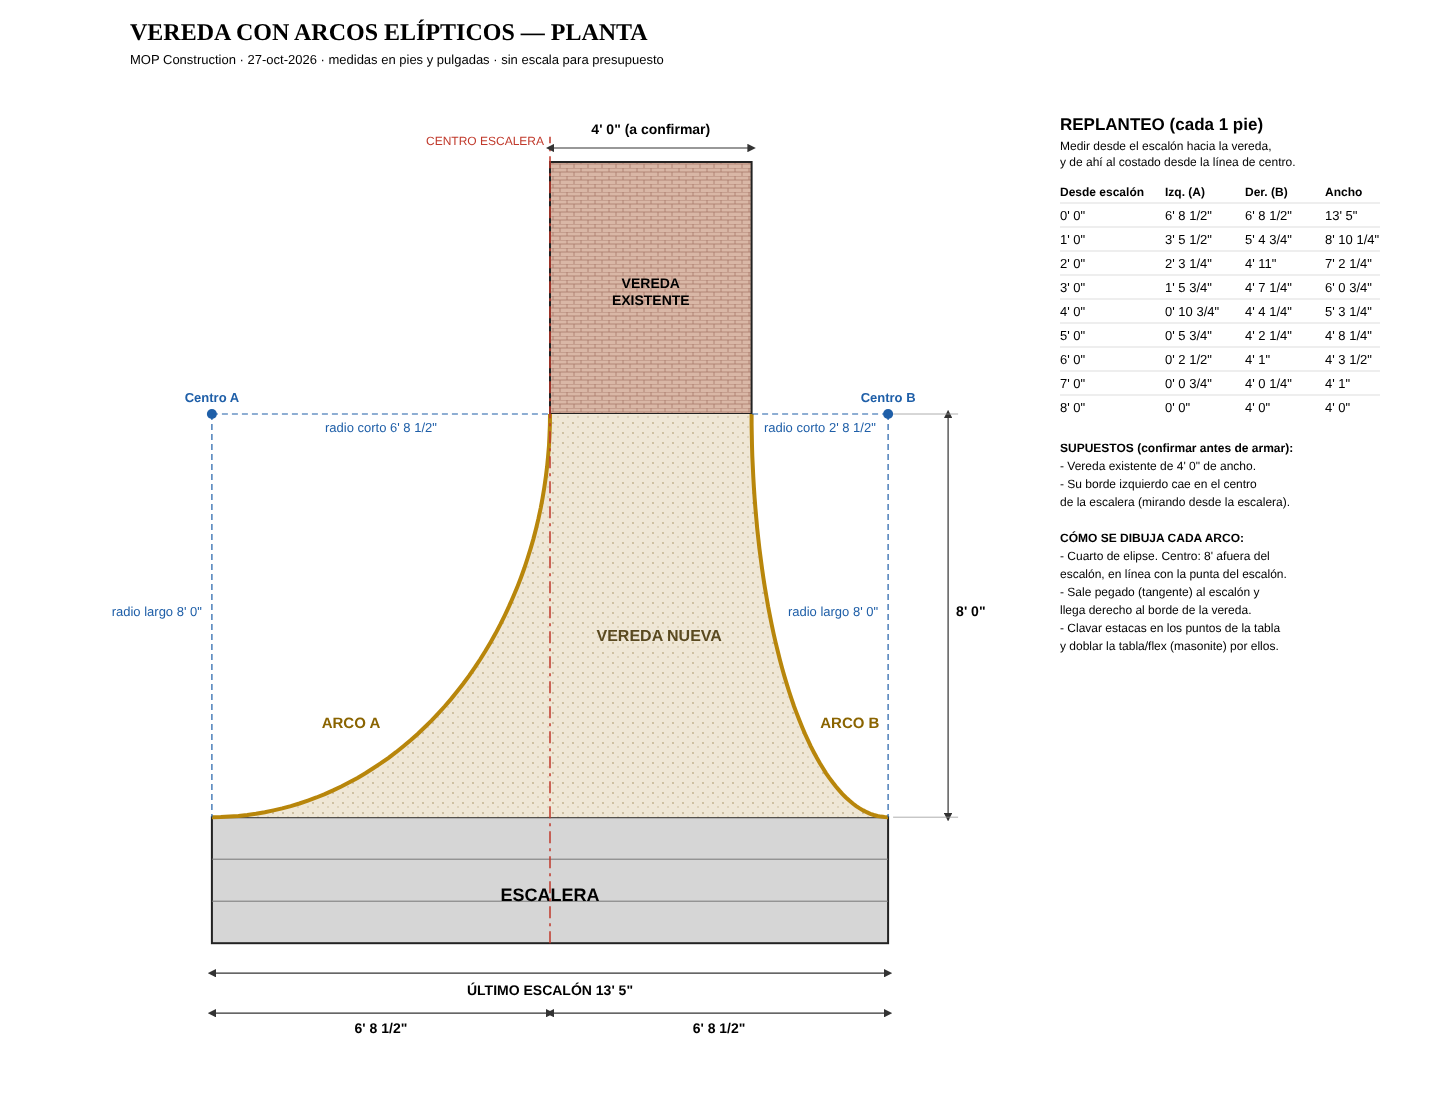
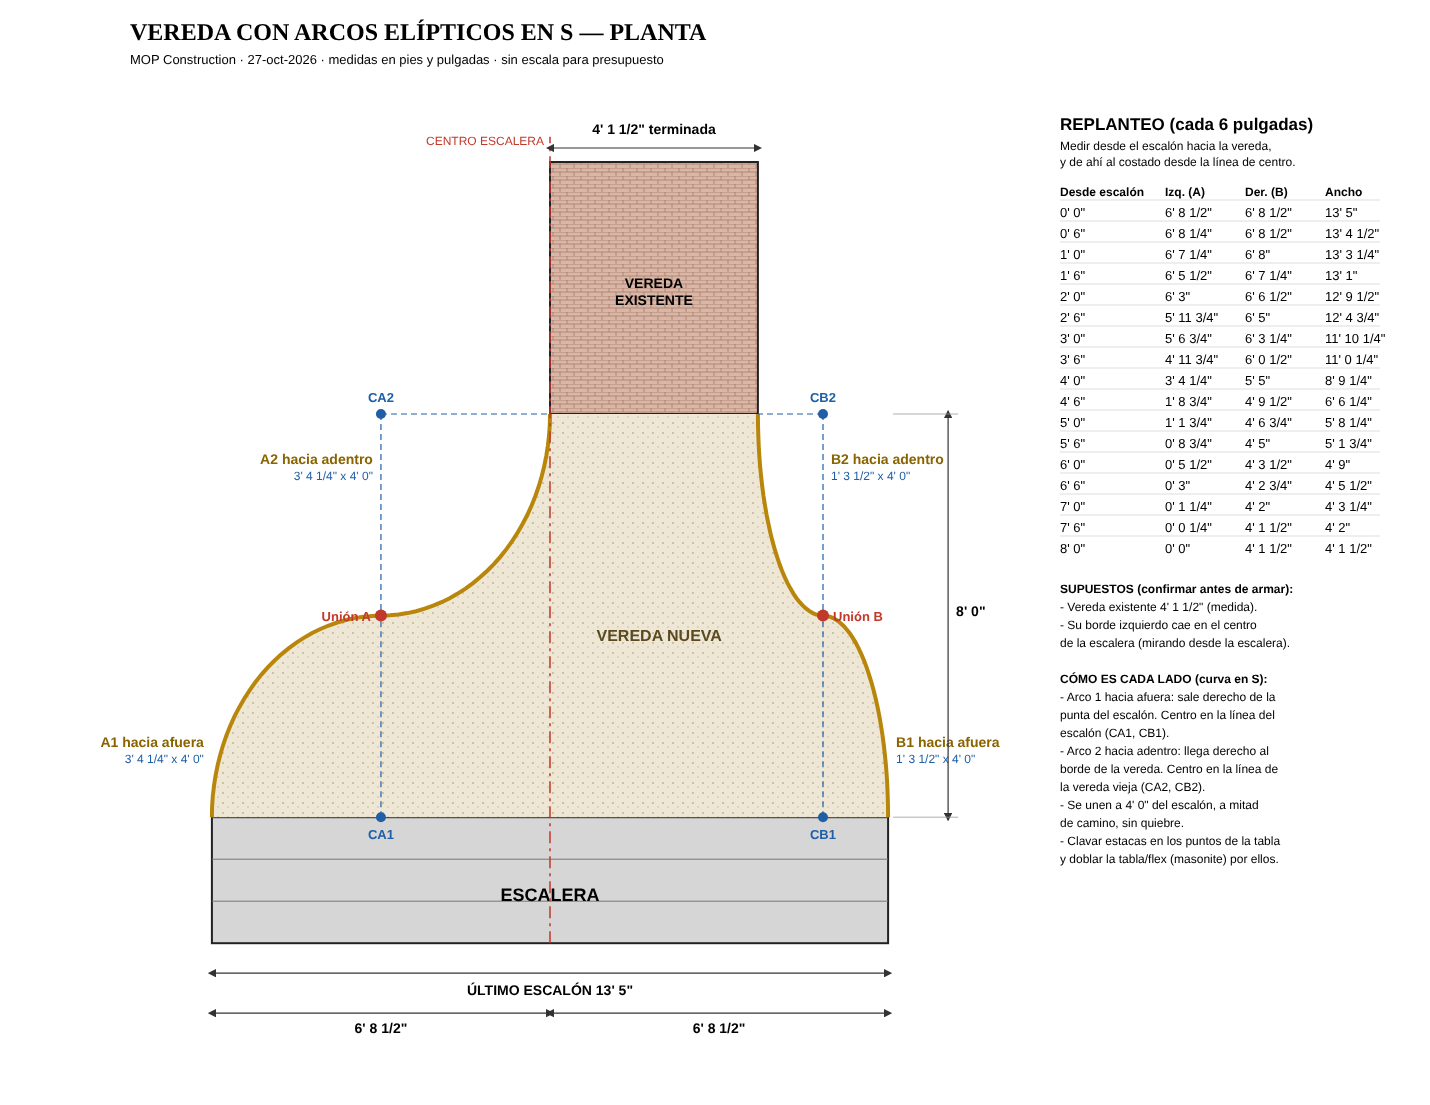
Vereda: cada lado en S (arco hacia afuera + arco hacia adentro), vereda existente 4' 1 1/2"
Claude-Session: https://claude.ai/code/session_01JxfwCwcy58gx3mRqVDhqQV

diff --git a/planos/vereda/vereda_arcos.py b/planos/vereda/vereda_arcos.py
@@ -9,8 +9,8 @@ import math, pathlib
 # --- Medidas dadas por Martin (27-oct) ---
 ANCHO_ESCALON = 13 * 12 + 5      # 161" último escalón
 LARGO = 8 * 12                   # 96" de la escalera a la vereda existente
+ANCHO_VEREDA = 49.5              # vereda existente 4' 1 1/2" terminada (Martin, 27-oct)
 # --- SUPUESTOS (confirmar en obra) ---
-ANCHO_VEREDA = 48                # vereda existente de 4'
 BORDE_IZQ_VEREDA = 0             # borde izquierdo de la vereda = centro de la escalera
                                  # (mirando desde la escalera hacia la vereda)
 
@@ -18,15 +18,34 @@ xs_izq, xs_der = -ANCHO_ESCALON / 2, ANCHO_ESCALON / 2
 xe_izq, xe_der = BORDE_IZQ_VEREDA, BORDE_IZQ_VEREDA + ANCHO_VEREDA
 
 
-def punto(xs, xe, t):
-    """Cuarto de elipse con centro en (xs, LARGO): sale tangente al escalón
-    y llega tangente (paralelo) al borde de la vereda."""
-    return xs + (xe - xs) * math.sin(t), LARGO * (1 - math.cos(t))
+UNION = LARGO / 2                # punto de unión de los dos arcos de cada lado
+
+
+# Cada lado es una S de dos cuartos de elipse que se unen en (xm, UNION):
+#  arco 1 (hacia afuera): centro (xm, 0), sale derecho de la punta del escalón;
+#  arco 2 (hacia adentro): centro (xm, LARGO), llega derecho al borde de la vereda.
+# En la unión los dos arcos tienen la misma tangente (paralela al escalón).
+def xm(xs, xe):
+    return (xs + xe) / 2
+
+
+def punto(xs, xe, u):
+    """u de 0 (escalón) a 1 (vereda)."""
+    m = xm(xs, xe)
+    if u <= 0.5:
+        t = math.pi * u
+        return m + (xs - m) * math.cos(t), UNION * math.sin(t)
+    t = math.pi * (u - 0.5)
+    return m + (xe - m) * math.sin(t), LARGO - (LARGO - UNION) * math.cos(t)
 
 
 def x_en(xs, xe, y):
-    c = 1 - y / LARGO
-    return xs + (xe - xs) * math.sqrt(max(0.0, 1 - c * c))
+    m = xm(xs, xe)
+    if y <= UNION:
+        s_ = y / UNION
+        return m + (xs - m) * math.sqrt(max(0.0, 1 - s_ * s_))
+    c = (LARGO - y) / (LARGO - UNION)
+    return m + (xe - m) * math.sqrt(max(0.0, 1 - c * c))
 
 
 def pies(p):
@@ -41,11 +60,11 @@ def pies(p):
 
 def tabla():
     filas = []
-    for k in range(0, 9):
-        y = k * 12
+    for k in range(0, 17):
+        y = k * 6
         izq = -x_en(xs_izq, xe_izq, y)      # a la izquierda del centro
         der = x_en(xs_der, xe_der, y)       # a la derecha del centro
-        filas.append((k, izq, der, izq + der))
+        filas.append((y, izq, der, izq + der))
     return filas
 
 
@@ -85,8 +104,8 @@ def svg():
 
     # Vereda nueva (relleno)
     n = 60
-    pts = [punto(xs_izq, xe_izq, math.pi / 2 * i / n) for i in range(n + 1)]
-    ptd = [punto(xs_der, xe_der, math.pi / 2 * i / n) for i in range(n + 1)]
+    pts = [punto(xs_izq, xe_izq, i / n) for i in range(n + 1)]
+    ptd = [punto(xs_der, xe_der, i / n) for i in range(n + 1)]
     contorno = pts + ptd[::-1]
     d = "M" + " L".join(f"{X(x):.1f},{Y(y):.1f}" for x, y in contorno) + "Z"
     a(f'<path d="{d}" fill="url(#hor)" stroke="none"/>')
@@ -99,16 +118,22 @@ def svg():
     a(f'<line x1="{X(0)}" y1="{Y(-30)}" x2="{X(0)}" y2="{Y(LARGO+66)}" stroke="#c0392b" stroke-width="1.5" stroke-dasharray="12 5 3 5"/>')
     a(f'<text x="{X(0)-6}" y="{Y(LARGO+64)}" text-anchor="end" font-size="12" fill="#c0392b">CENTRO ESCALERA</text>')
 
-    # Centros de las elipses y semiejes
+    # Centros de las elipses, unión y semiejes
     for xs, xe, lado in ((xs_izq, xe_izq, "A"), (xs_der, xe_der, "B")):
-        a(f'<circle cx="{X(xs)}" cy="{Y(LARGO)}" r="5" fill="#1f5fa8"/>')
-        a(f'<line x1="{X(xs)}" y1="{Y(LARGO)}" x2="{X(xe)}" y2="{Y(LARGO)}" stroke="#1f5fa8" stroke-width="1.2" stroke-dasharray="6 4"/>')
-        a(f'<line x1="{X(xs)}" y1="{Y(LARGO)}" x2="{X(xs)}" y2="{Y(0)}" stroke="#1f5fa8" stroke-width="1.2" stroke-dasharray="6 4"/>')
-        a(f'<text x="{X(xs)}" y="{Y(LARGO)-12}" text-anchor="middle" font-size="13" font-weight="700" fill="#1f5fa8">Centro {lado}</text>')
-        r = abs(xe - xs)
-        a(f'<text x="{X((xs+xe)/2)}" y="{Y(LARGO)+18}" text-anchor="middle" font-size="13" fill="#1f5fa8">radio corto {pies(r)}</text>')
-        a(f'<text x="{X(xs)-10}" y="{Y(LARGO/2)}" text-anchor="end" font-size="13" fill="#1f5fa8">radio largo {pies(LARGO)}</text>')
-        a(f'<text x="{X((xs+xe)/2)+(-30 if xs<0 else 30)}" y="{Y(LARGO*0.22)}" text-anchor="middle" font-size="15" font-weight="700" fill="#8a6400">ARCO {lado}</text>')
+        m = xm(xs, xe)
+        izq = xs < 0
+        for yc, num in ((0, 1), (LARGO, 2)):
+            a(f'<circle cx="{X(m)}" cy="{Y(yc)}" r="5" fill="#1f5fa8"/>')
+            a(f'<line x1="{X(m)}" y1="{Y(yc)}" x2="{X(m)}" y2="{Y(UNION)}" stroke="#1f5fa8" stroke-width="1.2" stroke-dasharray="6 4"/>')
+            a(f'<text x="{X(m)}" y="{Y(yc)+(22 if yc==0 else -12)}" text-anchor="middle" font-size="13" font-weight="700" fill="#1f5fa8">C{lado}{num}</text>')
+        a(f'<line x1="{X(m)}" y1="{Y(LARGO)}" x2="{X(xe)}" y2="{Y(LARGO)}" stroke="#1f5fa8" stroke-width="1.2" stroke-dasharray="6 4"/>')
+        a(f'<circle cx="{X(m)}" cy="{Y(UNION)}" r="6" fill="#c0392b"/>')
+        a(f'<text x="{X(m)+(-10 if izq else 10)}" y="{Y(UNION)+5}" text-anchor="{"end" if izq else "start"}" font-size="13" font-weight="700" fill="#c0392b">Unión {lado}</text>')
+        r = abs(xe - xs) / 2
+        a(f'<text x="{X(xs)+(-8 if izq else 8)}" y="{Y(UNION*0.35)}" text-anchor="{"end" if izq else "start"}" font-size="14" font-weight="700" fill="#8a6400">{lado}1 hacia afuera</text>')
+        a(f'<text x="{X(xs)+(-8 if izq else 8)}" y="{Y(UNION*0.35)+16}" text-anchor="{"end" if izq else "start"}" font-size="12" fill="#1f5fa8">{pies(r)} x {pies(UNION)}</text>')
+        a(f'<text x="{X(m)+(-8 if izq else 8)}" y="{Y(UNION+(LARGO-UNION)*0.75)}" text-anchor="{"end" if izq else "start"}" font-size="14" font-weight="700" fill="#8a6400">{lado}2 hacia adentro</text>')
+        a(f'<text x="{X(m)+(-8 if izq else 8)}" y="{Y(UNION+(LARGO-UNION)*0.75)+16}" text-anchor="{"end" if izq else "start"}" font-size="12" fill="#1f5fa8">{pies(r)} x {pies(LARGO-UNION)}</text>')
 
     # Cotas
     def cota_h(x1, x2, y, txt, dy=-14):
@@ -117,7 +142,7 @@ def svg():
     cota_h(xs_izq, xs_der, Y(-30) + 30, f"ÚLTIMO ESCALÓN {pies(ANCHO_ESCALON)}", 22)
     cota_h(xs_izq, 0, Y(-30) + 70, pies(ANCHO_ESCALON / 2), 20)
     cota_h(0, xs_der, Y(-30) + 70, pies(ANCHO_ESCALON / 2), 20)
-    cota_h(xe_izq, xe_der, Y(LARGO + 60) - 14, f"{pies(ANCHO_VEREDA)} (a confirmar)")
+    cota_h(xe_izq, xe_der, Y(LARGO + 60) - 14, f"{pies(ANCHO_VEREDA)} terminada")
     xv = X(xs_der) + 60
     a(f'<line x1="{xv}" y1="{Y(0)}" x2="{xv}" y2="{Y(LARGO)}" stroke="#333" stroke-width="1.2" marker-start="url(#fl)" marker-end="url(#fl)"/>')
     a(f'<text x="{xv+8}" y="{Y(LARGO/2)}" font-size="14" font-weight="700">{pies(LARGO)}</text>')
@@ -126,7 +151,7 @@ def svg():
 
     # Tabla de replanteo
     tx, ty = X(xmax) + 90, my + 10
-    a(f'<text x="{tx}" y="{ty}" font-size="17" font-weight="700">REPLANTEO (cada 1 pie)</text>')
+    a(f'<text x="{tx}" y="{ty}" font-size="17" font-weight="700">REPLANTEO (cada 6 pulgadas)</text>')
     a(f'<text x="{tx}" y="{ty+20}" font-size="12">Medir desde el escalón hacia la vereda,</text>')
     a(f'<text x="{tx}" y="{ty+36}" font-size="12">y de ahí al costado desde la línea de centro.</text>')
     cab = ("Desde escalón", "Izq. (A)", "Der. (B)", "Ancho")
@@ -135,22 +160,26 @@ def svg():
     for c, t in zip(cols, cab):
         a(f'<text x="{tx+c}" y="{yy}" font-size="12" font-weight="700">{t}</text>')
     for k, izq, der, an in tabla():
-        yy += 24
+        yy += 21
         a(f'<line x1="{tx}" y1="{yy-17}" x2="{tx+320}" y2="{yy-17}" stroke="#ddd"/>')
-        for c, t in zip(cols, (f"{k}' 0\"", pies(izq), pies(der), pies(an))):
+        for c, t in zip(cols, (pies(k), pies(izq), pies(der), pies(an))):
             a(f'<text x="{tx+c}" y="{yy}" font-size="13">{t}</text>')
     yy += 40
     notas = [
         "SUPUESTOS (confirmar antes de armar):",
-        f"- Vereda existente de {pies(ANCHO_VEREDA)} de ancho.",
+        f"- Vereda existente {pies(ANCHO_VEREDA)} (medida).",
         "- Su borde izquierdo cae en el centro",
         "  de la escalera (mirando desde la escalera).",
         "",
-        "CÓMO SE DIBUJA CADA ARCO:",
-        "- Cuarto de elipse. Centro: 8' afuera del",
-        "  escalón, en línea con la punta del escalón.",
-        "- Sale pegado (tangente) al escalón y",
-        "  llega derecho al borde de la vereda.",
+        "CÓMO ES CADA LADO (curva en S):",
+        "- Arco 1 hacia afuera: sale derecho de la",
+        "  punta del escalón. Centro en la línea del",
+        "  escalón (CA1, CB1).",
+        "- Arco 2 hacia adentro: llega derecho al",
+        "  borde de la vereda. Centro en la línea de",
+        "  la vereda vieja (CA2, CB2).",
+        f"- Se unen a {pies(UNION)} del escalón, a mitad",
+        "  de camino, sin quiebre.",
         "- Clavar estacas en los puntos de la tabla",
         "  y doblar la tabla/flex (masonite) por ellos.",
     ]
@@ -158,7 +187,7 @@ def svg():
         a(f'<text x="{tx}" y="{yy}" font-size="12" font-weight="{"700" if t.endswith(":") else "400"}">{t}</text>')
         yy += 18
 
-    a(f'<text x="{mx}" y="{40}" font-size="24" font-weight="700" font-family="Cinzel, serif">VEREDA CON ARCOS ELÍPTICOS — PLANTA</text>')
+    a(f'<text x="{mx}" y="{40}" font-size="24" font-weight="700" font-family="Cinzel, serif">VEREDA CON ARCOS ELÍPTICOS EN S — PLANTA</text>')
     a(f'<text x="{mx}" y="{64}" font-size="13">MOP Construction · 27-oct-2026 · medidas en pies y pulgadas · sin escala para presupuesto</text>')
     a('</svg>')
     return "\n".join(o)
@@ -168,4 +197,4 @@ if __name__ == "__main__":
     aqui = pathlib.Path(__file__).parent
     (aqui / "vereda_arcos.svg").write_text(svg(), encoding="utf-8")
     for k, izq, der, an in tabla():
-        print(f"{k}' -> izq {pies(izq):>10}  der {pies(der):>10}  ancho {pies(an):>10}")
+        print(f"{pies(k)} -> izq {pies(izq):>10}  der {pies(der):>10}  ancho {pies(an):>10}")
